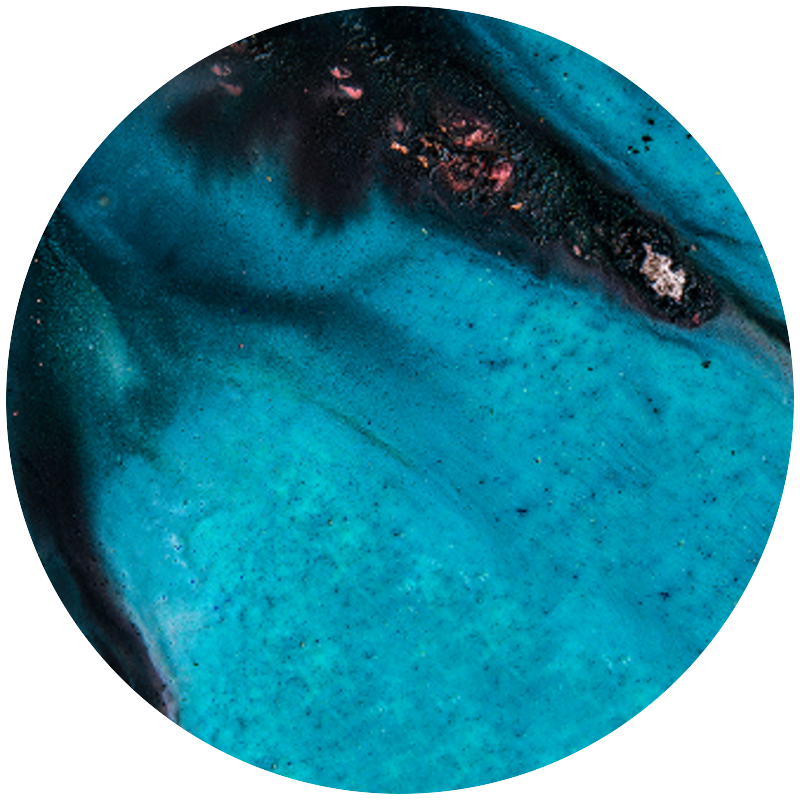
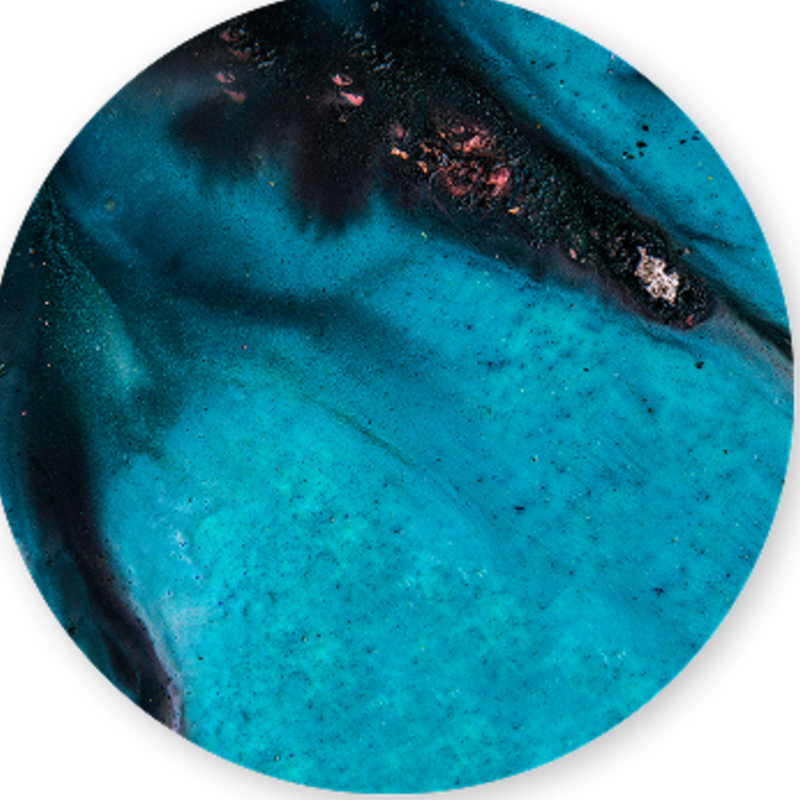
fix: eliminate light ring on collection discs
Root cause was my circle mask sitting ~4px inside the CSS container
circle, leaving a thin gap that showed the light background. Now the
artwork overfills the frame and only the CSS border-radius clips it,
so the disc fills edge-to-edge with no ring. Cache-bust v=3.

diff --git a/kroma-landing-page.html b/kroma-landing-page.html
@@ -579,7 +579,7 @@ footer a:hover{color:#f7f7f7;}
     <div class="coll-pieces">
       <div class="fade-up">
         <div class="piece-circle">
-          <img src="Images/kroma-mar-disc.png?v=2" alt="MAR" loading="lazy">
+          <img src="Images/kroma-mar-disc.png?v=3" alt="MAR" loading="lazy">
         </div>
         <p class="piece-edition">Édition I · N° 1–50</p>
         <p class="piece-name">MAR</p>
@@ -588,7 +588,7 @@ footer a:hover{color:#f7f7f7;}
       </div>
       <div class="fade-up d1">
         <div class="piece-circle">
-          <img src="Images/kroma-solar.png?v=2" alt="SOLAR" loading="lazy">
+          <img src="Images/kroma-solar.png?v=3" alt="SOLAR" loading="lazy">
         </div>
         <p class="piece-edition">Édition I · N° 1–50</p>
         <p class="piece-name">SOLAR</p>
@@ -597,7 +597,7 @@ footer a:hover{color:#f7f7f7;}
       </div>
       <div class="fade-up d2">
         <div class="piece-circle">
-          <img src="Images/kroma-tierra.png?v=2" alt="TIERRA" loading="lazy">
+          <img src="Images/kroma-tierra.png?v=3" alt="TIERRA" loading="lazy">
         </div>
         <p class="piece-edition">Édition I · N° 1–50</p>
         <p class="piece-name">TIERRA</p>